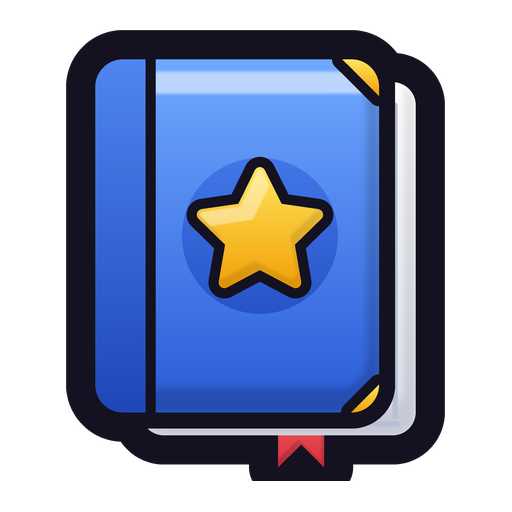
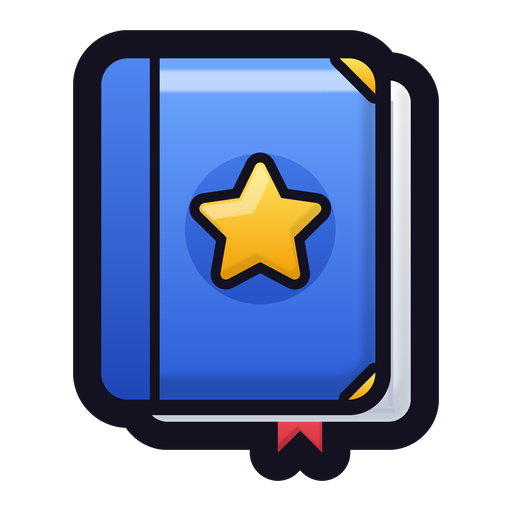
HUD: captions under upgrades/settings buttons, labels on eggs/dragons buttons, remove daily button (daily auto-opens on start)
Claude-Session: https://claude.ai/code/session_01QBXJt8FujAYBNvGqHfCJbe

diff --git a/Assets/_Game/Scripts/UI/UIManager.cs b/Assets/_Game/Scripts/UI/UIManager.cs
@@ -100,7 +100,8 @@ namespace DragonHeist
             var brown = new Color(0.32f, 0.23f, 0.18f, 0.95f);
             float cb = mobile ? 76 : 96;
             // круглые кнопки слева сверху: улучшения (сумка), перерождение (книга)
-            UIKit.CircleButton(h, "BtnShop", Icons.Bag, new Vector2(0, 1), new Vector2(0, 1), new Vector2(16, -12), cb, brown, () => OnMenuButton(0));
+            var sb = UIKit.CircleButton(h, "BtnShop", Icons.Bag, new Vector2(0, 1), new Vector2(0, 1), new Vector2(16, -12), cb, brown, () => OnMenuButton(0));
+            HudCaption(sb.transform, Loc.Ru ? "Улучшения" : "Upgrades", cb);
             var rb = UIKit.CircleButton(h, "BtnTrails", Icons.Shoe, new Vector2(0, 1), new Vector2(0, 1), new Vector2(26 + cb, -12), cb, brown, () => OpenTrails());
             rebirthText = UIKit.Label(UIKit.Rect(rb.transform, "R", new Vector2(0.5f, 0), new Vector2(0.5f, 1), new Vector2(0, 8), new Vector2(cb + 20, 26)), Loc.Ru ? "Трейлы" : "Trails", 17, Color.white);
             UIKit.Fit(rebirthText, 12);
@@ -115,16 +116,15 @@ namespace DragonHeist
             nt.rectTransform.offsetMin = Vector2.zero; nt.rectTransform.offsetMax = Vector2.zero;
             if (UIKit.ApplySkin(tag, "badge_new", false)) { tag.type = Image.Type.Simple; tag.preserveAspect = true; UIKit.HideLabels(tag.transform); }
             // шестерёнка справа сверху
-            UIKit.CircleButton(h, "BtnSettings", Icons.Gear, new Vector2(1, 1), new Vector2(1, 1), new Vector2(-16, -12), cb, brown, () => OnMenuButton(4));
+            var gb = UIKit.CircleButton(h, "BtnSettings", Icons.Gear, new Vector2(1, 1), new Vector2(1, 1), new Vector2(-16, -12), cb, brown, () => OnMenuButton(4));
+            HudCaption(gb.transform, Loc.Ru ? "Настройки" : "Settings", cb);
             // красные квадраты справа: ежедневная награда (яйцо), драконы (лапа)
             float sq = mobile ? 78 : 92;
             var red = new Color(0.9f, 0.2f, 0.2f);
-            UIKit.Button(h, "BtnEggs", "", new Vector2(1, 0.5f), new Vector2(1, 0.5f), new Vector2(-16, mobile ? 120 : 60), new Vector2(sq, sq), red, () => ShowOnly(eggsPanel), 14, Icons.Egg);
-            var dailyBtn = UIKit.Button(h, "BtnDaily", Loc.Ru ? "Награда" : "Daily", new Vector2(1, 1), new Vector2(1, 1), new Vector2(-16, -24 - cb), new Vector2(cb, cb * 0.8f),
-                new Color(0.95f, 0.3f, 0.45f), () => ShowOnly(dailyPanel), 13, Icons.Star);
-            Destroy(dailyBtn.GetComponent<ButtonBounce>());
-            dailyBtn.gameObject.AddComponent<DailyBadge>();
-            UIKit.Button(h, "BtnDragons", "", new Vector2(1, 0.5f), new Vector2(1, 0.5f), new Vector2(-16, (mobile ? 120 : 60) - sq - 10), new Vector2(sq, sq), red, () => OnMenuButton(2), 14, Icons.Paw);
+            // подпись прямо на кнопке (иконка сверху, текст снизу), чтобы было понятно, что это
+            UIKit.Button(h, "BtnEggs", Loc.Ru ? "Яйца" : "Eggs", new Vector2(1, 0.5f), new Vector2(1, 0.5f), new Vector2(-16, mobile ? 120 : 60), new Vector2(sq, sq), red, () => ShowOnly(eggsPanel), 17, Icons.Egg);
+            // ежедневная награда — без кнопки: окно само открывается при заходе, если награду можно забрать (AfterPlay)
+            UIKit.Button(h, "BtnDragons", Loc.Ru ? "Драконы" : "Dragons", new Vector2(1, 0.5f), new Vector2(1, 0.5f), new Vector2(-16, (mobile ? 120 : 60) - sq - 10), new Vector2(sq, sq), red, () => OnMenuButton(2), 16, Icons.Paw);
 
             // скорость (кроссовок) и деньги: на ПК — слева снизу, на телефоне — под верхними кнопками (снизу джойстик)
             // Телефон (от верха экрана): кнопки 12..88, подпись "Трейлы" до ~106, скорость 114..158, деньги 162..218, доход 218..266;
@@ -207,6 +207,13 @@ namespace DragonHeist
 
             // главное меню убрано — игрок сразу попадает в игру (см. StartGame)
             gameObject.AddComponent<ResponsiveCanvas>().Init(scaler, mobile, root);
+        }
+
+        /// <summary>Подпись под круглой кнопкой HUD (белый текст с обводкой).</summary>
+        static void HudCaption(Transform button, string text, float cb)
+        {
+            var t = UIKit.Label(UIKit.Rect(button, "Caption", new Vector2(0.5f, 0), new Vector2(0.5f, 1), new Vector2(0, 8), new Vector2(cb + 24, 26)), text, 17, Color.white);
+            UIKit.Fit(t, 11);
         }
 
         Text StatPill(Transform parent, int line, Sprite icon, Color color)
